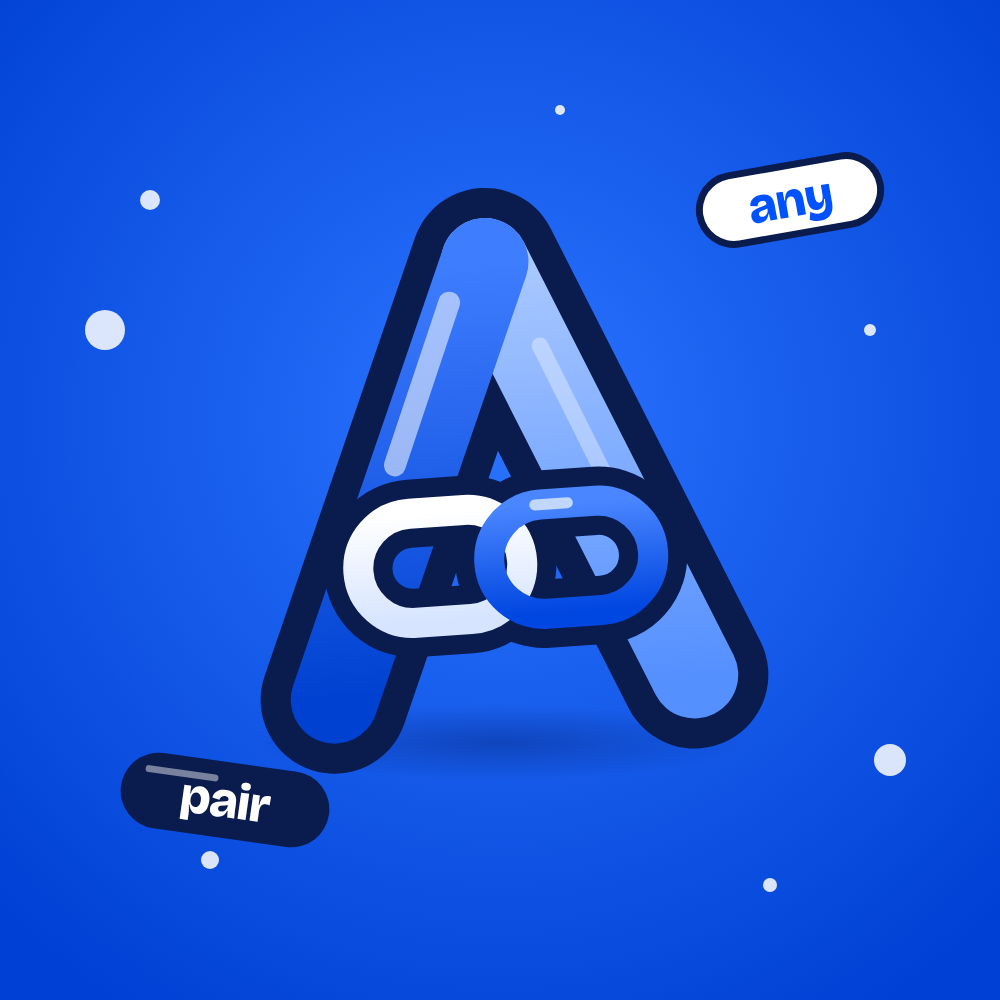
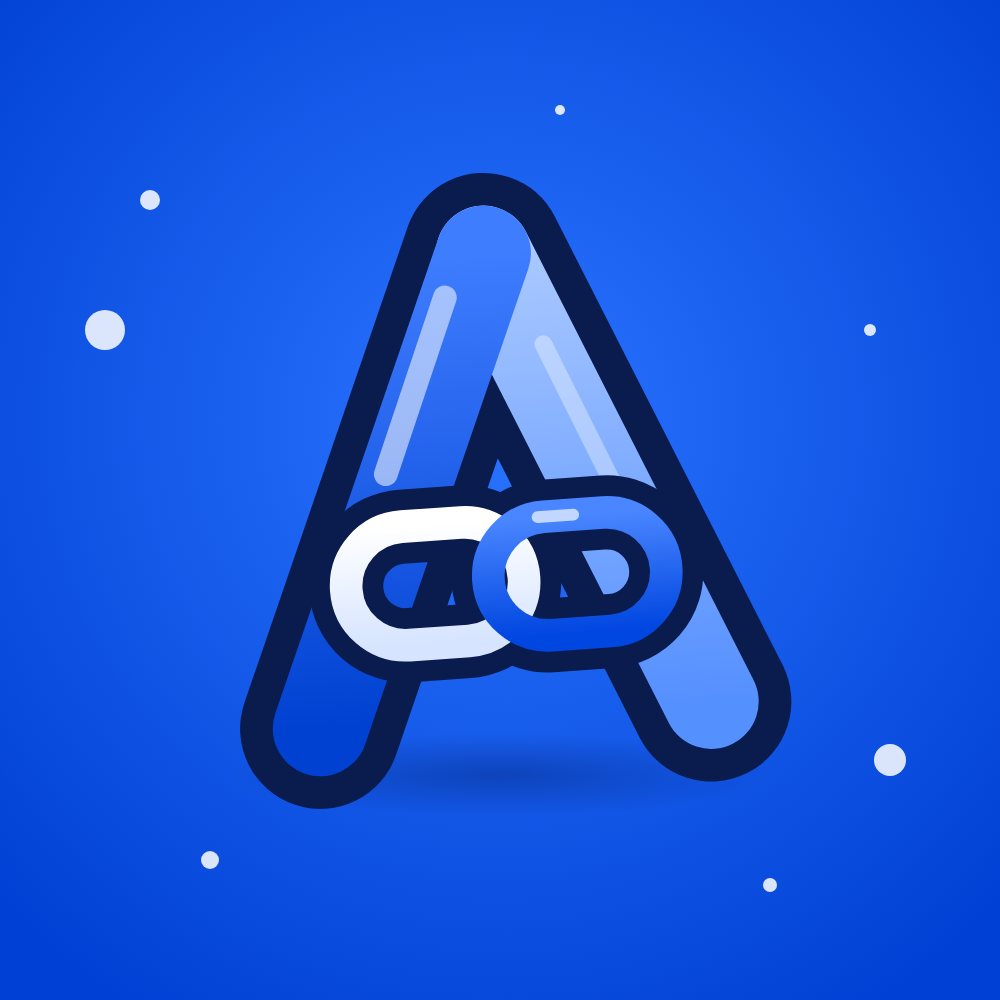
Anypair brand: pfp without the any/pair pills
Claude-Session: https://claude.ai/code/session_018647HdkJmRvZZjLKjj8BXD

Changed region(s): [[0.124, 0.155, 0.806, 0.868], [0.682, 0.155, 0.899, 0.248]]

diff --git a/web/anypair/brand/brand3.js b/web/anypair/brand/brand3.js
@@ -7,7 +7,7 @@ const FONT = '<link rel="stylesheet" href="https://fonts.googleapis.com/css2?fam
 const pill = (x, y, rot, word, fill, ink, w) => `<g transform="translate(${x} ${y}) rotate(${rot})"><rect x="${-w / 2}" y="-38" width="${w}" height="76" rx="38" fill="#0a1b4d"/><rect x="${-w / 2 + 7}" y="-31" width="${w - 14}" height="62" rx="31" fill="${fill}"/><rect x="${-w / 2 + 22}" y="-24" width="${w * 0.35}" height="7" rx="3.5" fill="#ffffff" opacity=".45"/><text x="0" y="17" text-anchor="middle" font-family="Bricolage Grotesque" font-weight="800" font-size="50" fill="${ink}" letter-spacing="-1">${word}</text></g>`;
 const dots = [[150, 200, 10], [105, 330, 20], [890, 760, 16], [770, 885, 7], [870, 330, 6], [210, 860, 9], [560, 110, 5]].map(([x, y, r]) => `<circle cx="${x}" cy="${y}" r="${r}" fill="#ffffff" opacity=".85"/>`).join('');
 const pages = {
-  'pfp.png': [1000, 1000, `<svg width="1000" height="1000"><defs><radialGradient id="bg" cx=".5" cy=".42" r=".7"><stop offset="0" stop-color="#2a74ff"/><stop offset="1" stop-color="#0040d4"/></radialGradient></defs><rect width="1000" height="1000" fill="url(#bg)"/>${dots}${mark(700, 150, 130)}${pill(790, 200, -10, 'any', '#ffffff', '#0052ff', 190)}${pill(225, 800, 8, 'pair', '#0a1b4d', '#ffffff', 210)}</svg>`],
+  'pfp.png': [1000, 1000, `<svg width="1000" height="1000"><defs><radialGradient id="bg" cx=".5" cy=".42" r=".7"><stop offset="0" stop-color="#2a74ff"/><stop offset="1" stop-color="#0040d4"/></radialGradient></defs><rect width="1000" height="1000" fill="url(#bg)"/>${dots}${mark(760, 120, 110)}</svg>`],
   'logo-512.png': [512, 512, mark(512), true],
   'icon-192.png': [192, 192, `<svg width="192" height="192"><rect width="192" height="192" rx="42" fill="#0052ff"/>${mark(170, 11, 8)}</svg>`, true],
   'apple-touch-icon.png': [180, 180, `<svg width="180" height="180"><rect width="180" height="180" fill="#0052ff"/>${mark(160, 10, 8)}</svg>`],
